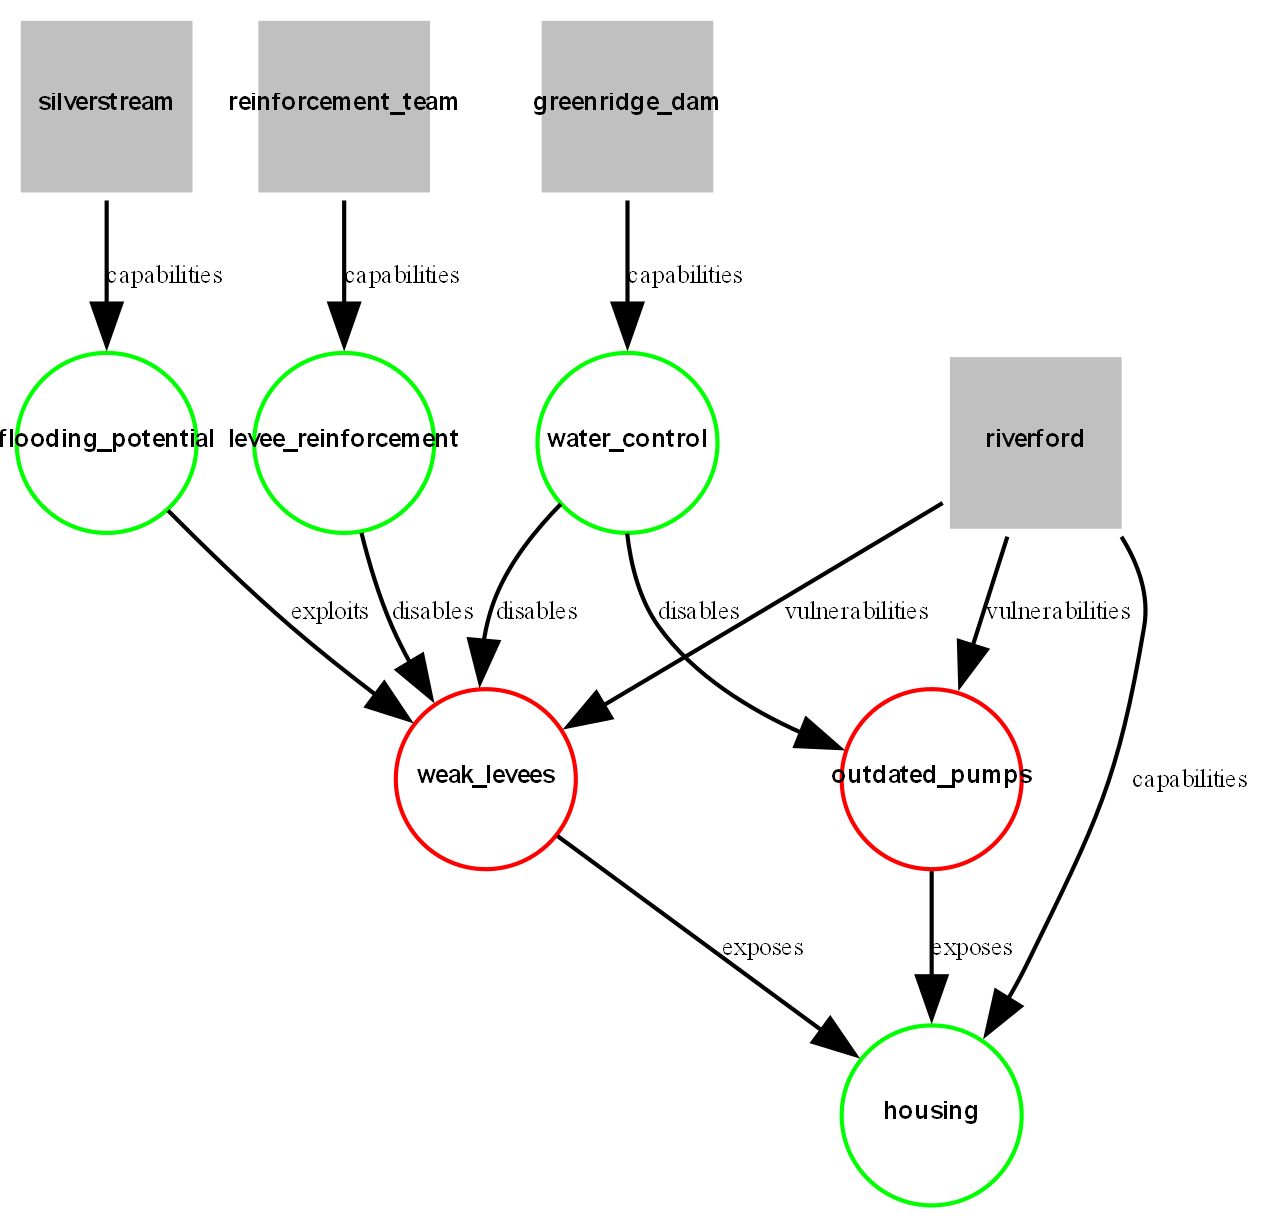
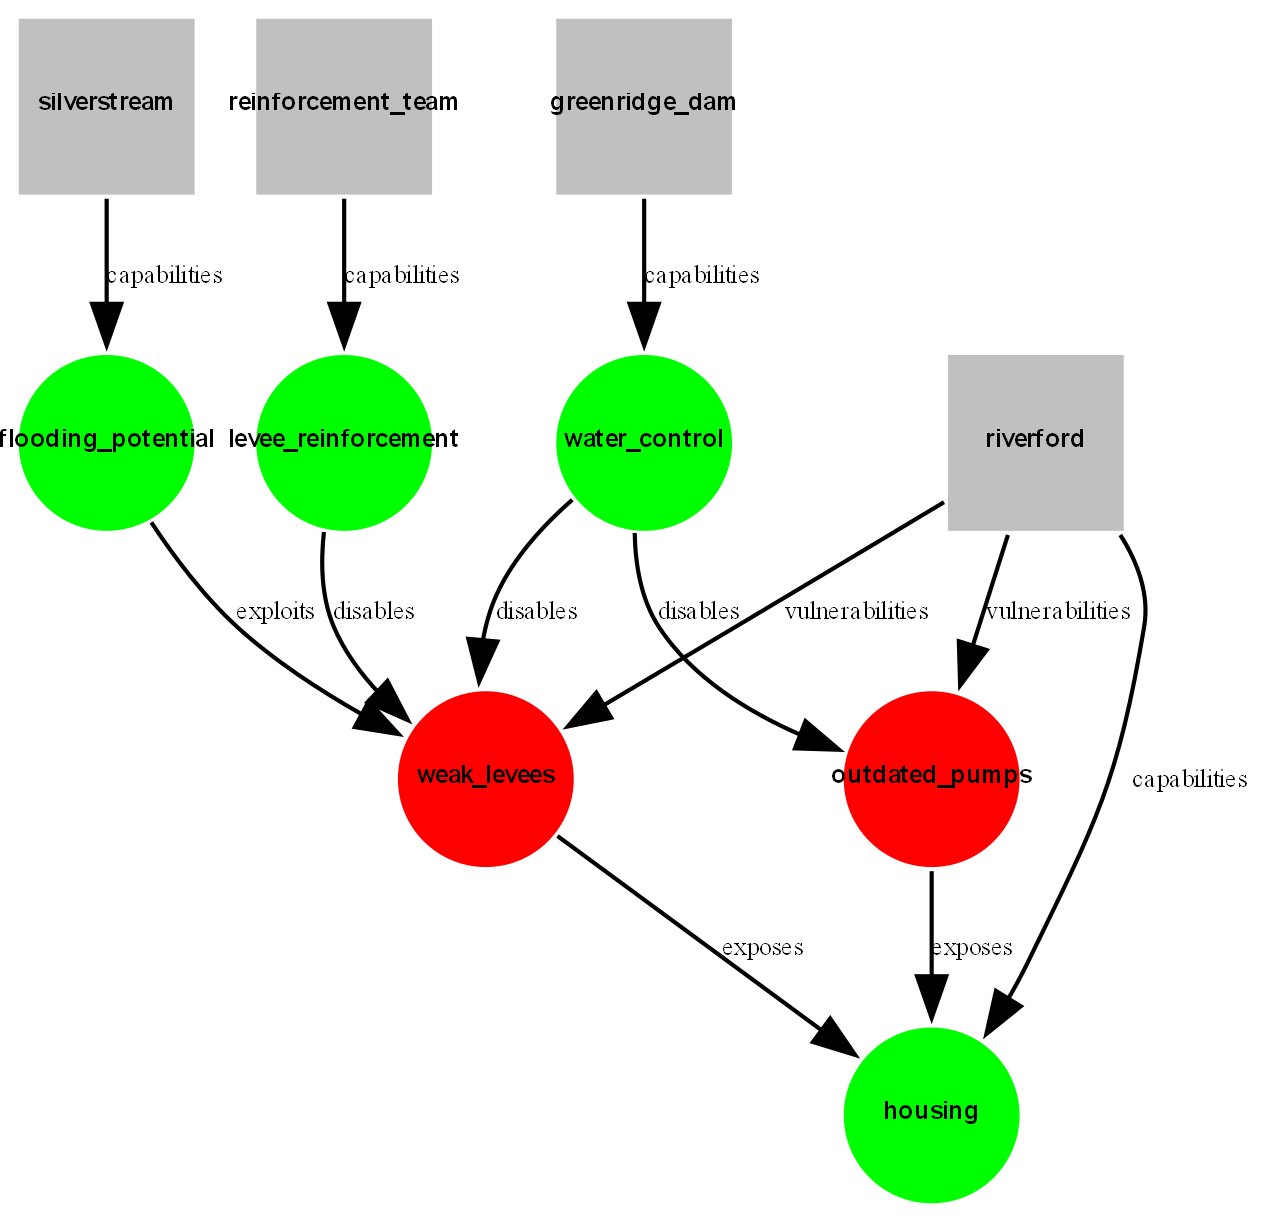
Visualization working for Dispositions and subtypes.

diff --git a/laderr_engine/laderr_lib/services/visualization.py b/laderr_engine/laderr_lib/services/visualization.py
@@ -19,7 +19,7 @@ class GraphCreator:
     """
 
     @staticmethod
-    def create_graph_visualization(laderr_graph: Graph, output_file_path: str, include_legend: bool = False) -> None:
+    def create_graph_visualization(laderr_graph: Graph, output_file_path: str) -> None:
         """
         Generates a Graphviz visualization of the RDF graph and saves it as a PNG.
 
@@ -36,18 +36,13 @@ class GraphCreator:
         :type laderr_graph: Graph
         :param output_file_path: Path to save the output visualization (must end with '.png').
         :type output_file_path: str
-        :param include_legend: Whether to include a text-only legend listing descriptions of node and edge styles.
-        :type include_legend: bool
         :raises ValueError: If the output file does not have a '.png' extension.
         """
         GraphCreator._validate_output_path(output_file_path)
         dot = GraphCreator._initialize_graph()
-        node_styles, edge_styles = GraphCreator._define_styles()
 
-        added_nodes = GraphCreator._process_nodes(laderr_graph, dot, node_styles)
-        GraphCreator._process_edges(laderr_graph, dot, added_nodes, edge_styles)
-        if include_legend:
-            GraphCreator._add_text_legend(dot, node_styles, edge_styles)
+        added_nodes = GraphCreator._process_nodes(laderr_graph, dot)
+        GraphCreator._process_edges(laderr_graph, dot, added_nodes)
         dot.render(output_file_path[:-4], cleanup=True)  # Remove '.png' for Graphviz
         logger.success(f"Graph saved as {output_file_path}")
 
@@ -77,32 +72,7 @@ class GraphCreator:
         return dot
 
     @staticmethod
-    def _define_styles() -> tuple[dict, dict]:
-        """
-        Defines node and edge styles used in the visualization.
-
-        This method:
-        - Specifies the default styles for nodes, including their shape, color, and border properties.
-        - Defines color schemes for different Entity subtypes (Asset, Control, Threat).
-        - Configures the colors of various edges representing relationships in the RDF graph.
-
-        :return: A tuple containing dictionaries for node styles and edge styles.
-        :rtype: tuple[dict, dict]
-        """
-        node_styles = {"Entity": {"shape": "square", "color": "white", "style": "filled", "penwidth": "2"},
-                       "Asset": {"color": "green"}, "Control": {"color": "blue"}, "Threat": {"color": "red"},
-                       "Capability": {"shape": "circle", "color": "green", "style": "filled"},
-                       "Vulnerability": {"shape": "circle", "color": "red", "style": "filled"},
-                       "Resilience": {"shape": "doublecircle", "color": "orange", "style": "filled"},
-                       "Mixed": {"shape": "circle", "color": "yellow", "style": "filled"}, }
-
-        edge_styles = {"protects": "blue", "inhibits": "blue", "threatens": "blue", "preserves": "orange",
-                       "preservesAgainst": "orange", "preservesDespite": "orange", "sustains": "orange", }
-
-        return node_styles, edge_styles
-
-    @staticmethod
-    def _process_nodes(laderr_graph: Graph, dot: graphviz.Digraph, node_styles: dict) -> set:
+    def _process_nodes(laderr_graph: Graph, dot: graphviz.Digraph) -> set:
         """
         Processes RDF nodes, assigns styles, and adds them to the Graphviz Digraph.
 
@@ -110,8 +80,6 @@ class GraphCreator:
         :type laderr_graph: Graph
         :param dot: Graphviz Digraph instance to which nodes will be added.
         :type dot: graphviz.Digraph
-        :param node_styles: Dictionary defining styles for different node types.
-        :type node_styles: dict
         :return: A set containing added node IDs to track processed nodes.
         :rtype: set
         """
@@ -126,46 +94,60 @@ class GraphCreator:
                 continue
 
             if "Resilience" in instance_types:
-                style = node_styles["Resilience"]
-            elif "Capability" in instance_types and "Vulnerability" in instance_types:
-                style = node_styles["Mixed"]
-            elif "Capability" in instance_types:
-                style = node_styles["Capability"]
-            elif "Vulnerability" in instance_types:
-                style = node_styles["Vulnerability"]
+                style = {"shape": "ellipse", "color": "white", "style": "filled", "fillcolor": "orange"}
+            elif any(item in instance_types for item in ["Disposition", "Capability", "Vulnerability"]):
+                style = GraphCreator._get_disposition_style(instance_types)
             elif "Entity" in instance_types:
-                # ic(instance_types, node_styles)
-                style = GraphCreator._get_entity_style(instance_types, node_styles)  # ic(style)
+                style = GraphCreator._get_entity_style(instance_types)
             else:
                 style = {"shape": "ellipse", "color": "black", "style": "filled"}
 
             if instance_id not in added_nodes:
                 dot.node(instance_id, shape=style["shape"], color=style["color"], style=style["style"],
-                    penwidth=style.get("penwidth", "1"), fillcolor=style.get("fillcolor", "white"),
-                    gradientangle=style.get("gradientangle", ""), fixedsize="true", width="0.6", height="0.6",
-                    fontname="Arial", fontsize="6", label=f"<<B>{instance_id}</B>>", margin="0.05"  # Adjust padding
-                )
+                         penwidth=style.get("penwidth", "1"), fillcolor=style.get("fillcolor", "white"),
+                         gradientangle=style.get("gradientangle", ""), fixedsize="true", width="0.6", height="0.6",
+                         fontname="Arial", fontsize="6", label=f"<<B>{instance_id}</B>>", margin="0.05")
 
                 added_nodes.add(instance_id)
 
         return added_nodes
 
     @staticmethod
-    def _get_entity_style(instance_types: list, node_styles: dict) -> dict:
+    def _get_disposition_style(instance_types: list) -> dict:
+        """
+        Determines the visual style of a Disposition based on whether it is a Capability, Vulnerability, or both.
+
+        :param instance_types: List of types associated with the disposition.
+        :type instance_types: list
+        :return: A dictionary containing Graphviz node style attributes.
+        :rtype: dict
+        """
+        base_style = {"shape": "circle", "style": "filled", "color": "white"}
+
+        if "Capability" in instance_types and "Vulnerability" in instance_types:
+            return {**base_style, "fillcolor": "green:red", "style": "wedged"}
+        elif "Capability" in instance_types:
+            return {**base_style, "fillcolor": "green"}
+        elif "Vulnerability" in instance_types:
+            return {**base_style, "fillcolor": "red"}
+        else:
+            return {**base_style, "fillcolor": "grey"}
+
+    @staticmethod
+    def _get_entity_style(instance_types: list) -> dict:
         """
         Determines the visual style of an Entity based on its subtypes using appropriate Graphviz styles.
 
         :param instance_types: List of types associated with the entity.
         :type instance_types: list
-        :param node_styles: Dictionary defining styles for different node types.
-        :type node_styles: dict
         :return: A dictionary containing Graphviz node style attributes.
         :rtype: dict
         """
+        node_styles = {"Entity": {"shape": "square", "color": "white", "style": "filled"}, "Asset": {"color": "green"},
+                       "Control": {"color": "#789df5"}, "Threat": {"color": "red"}}
+
         base_style = node_styles["Entity"]
         entity_types = [t for t in ["Asset", "Control", "Threat"] if t in instance_types]
-
-        # ic(base_style, entity_types)
 
         if not entity_types:
             return {**base_style, "fillcolor": "grey", "style": "filled"}
@@ -175,18 +157,18 @@ class GraphCreator:
 
         if len(entity_types) == 2:
             return {**base_style,
-                "fillcolor": f"{node_styles[entity_types[0]]['color']}:{node_styles[entity_types[1]]['color']}",
-                "style": "striped"}
+                    "fillcolor": f"{node_styles[entity_types[0]]['color']}:{node_styles[entity_types[1]]['color']}",
+                    "style": "striped"}
 
         if len(entity_types) == 3:
             return {**base_style,
-                "fillcolor": f"{node_styles['Asset']['color']};0.33:{node_styles['Control']['color']};0.33:{node_styles['Threat']['color']};0.34",
-                "style": "striped"}
+                    "fillcolor": f"{node_styles['Asset']['color']};0.33:{node_styles['Control']['color']};0.33:{node_styles['Threat']['color']};0.34",
+                    "style": "striped"}
 
         return base_style  # Fallback, should not be reached
 
     @staticmethod
-    def _process_edges(laderr_graph: Graph, dot: graphviz.Digraph, added_nodes: set, edge_styles: dict) -> None:
+    def _process_edges(laderr_graph: Graph, dot: graphviz.Digraph, added_nodes: set) -> None:
         """
         Processes RDF relationships, assigns edge styles, and adds them to the Graphviz Digraph.
 
@@ -196,9 +178,11 @@ class GraphCreator:
         :type dot: graphviz.Digraph
         :param added_nodes: Set of added node IDs to ensure valid edges.
         :type added_nodes: set
-        :param edge_styles: Dictionary defining styles for different edge types.
-        :type edge_styles: dict
         """
+
+        edge_styles = {"protects": "blue", "inhibits": "blue", "threatens": "blue", "preserves": "orange",
+                       "preservesAgainst": "orange", "preservesDespite": "orange", "sustains": "orange", }
+
         for subject, predicate, obj in laderr_graph:
             subject_id = str(subject).split("#")[-1]
             obj_id = str(obj).split("#")[-1]
@@ -208,39 +192,3 @@ class GraphCreator:
                 edge_color = edge_styles.get(predicate_label, "black")
                 dot.edge(subject_id, obj_id, label=predicate_label, fontsize="6", color=edge_color,
                          fontcolor=edge_color)
-
-    @staticmethod
-    def _add_text_legend(dot: graphviz.Digraph, node_styles: dict, edge_styles: dict) -> None:
-        """
-        Adds a text-only legend to the Graphviz visualization, listing node and edge types with their corresponding descriptions.
-
-        :param dot: Graphviz Digraph instance where the legend will be added.
-        :type dot: graphviz.Digraph
-        :param node_styles: Dictionary defining styles for different node types.
-        :type node_styles: dict
-        :param edge_styles: Dictionary defining styles for different edge types.
-        :type edge_styles: dict
-        """
-        with dot.subgraph(name="cluster_legend") as legend:
-            legend.attr(label="Legend", fontsize="14", color="black", style="dashed", margin="0.3")
-
-            # Define a table-style label for the legend
-            legend_label = """<
-                <TABLE BORDER="0" CELLBORDER="1" CELLSPACING="0">
-                    <TR><TD><B>Symbol</B></TD><TD><B>Meaning</B></TD></TR>
-            """
-
-            # ---- NODE SYMBOLS ----
-            for label, style in node_styles.items():
-                symbol_desc = f"{style['color']} {style['shape']}"  # e.g., "blue square"
-                legend_label += f'<TR><TD>{symbol_desc}</TD><TD>{label}</TD></TR>'
-
-            # ---- EDGE SYMBOLS ----
-            for label, color in edge_styles.items():
-                symbol_desc = f"{color} line"  # e.g., "red line"
-                legend_label += f'<TR><TD>{symbol_desc}</TD><TD>{label} relation</TD></TR>'
-
-            legend_label += "</TABLE>>"
-
-            # Add a single legend node containing the text
-            legend.node("text_legend", label=legend_label, shape="plaintext", fontsize="10")

diff --git a/laderr_engine/tester.py b/laderr_engine/tester.py
@@ -4,7 +4,6 @@ from laderr_engine.laderr_lib.laderr import Laderr
 from laderr_engine.laderr_lib.services.visualization import GraphCreator
 
 if __name__ == "__main__":
-
     # Load spec_metadata_dict and data from the specification
     laderr_file = "C:\\Users\\FavatoBarcelosPP\\Dev\\laderr_engine\\manual_test_resources\\example.toml"
 
@@ -16,8 +15,10 @@ if __name__ == "__main__":
     GraphCreator.create_graph_visualization(laderr_graph,
                                             "C:\\Users\\FavatoBarcelosPP\\Dev\\laderr_engine\\manual_test_resources\\output_graph1.png")
 
-    laderr_graph = Laderr.exec_inferences_ladder_graph(laderr_graph)
+    Laderr.save_laderr_graph(laderr_graph,
+                             "C:\\Users\\FavatoBarcelosPP\\Dev\\laderr_engine\\manual_test_resources\\output_graph1.ttl")
 
+    laderr_graph = Laderr.exec_inferences_ladder_graph(laderr_graph)
 
     # Add the triple to the graph
     # Define Subject, Predicate, and Object
@@ -33,8 +34,18 @@ if __name__ == "__main__":
     obj = URIRef("https://w3id.org/laderr#Threat")
     laderr_graph.add((subject, predicate, obj))
 
+    subject = URIRef("https://socio-ecological.example.com/laderr#test")
+    predicate = URIRef(RDF.type)
+    obj = URIRef("https://w3id.org/laderr#Disposition")
+    laderr_graph.add((subject, predicate, obj))
+
+    subject = URIRef("https://socio-ecological.example.com/laderr#levee_reinforcement")
+    predicate = URIRef(RDF.type)
+    obj = URIRef("https://w3id.org/laderr#Vulnerability")
+    laderr_graph.add((subject, predicate, obj))
+
     Laderr.save_laderr_graph(laderr_graph,
-                             "C:\\Users\\FavatoBarcelosPP\\Dev\\laderr_engine\\manual_test_resources\\output_graph.ttl")
+                             "C:\\Users\\FavatoBarcelosPP\\Dev\\laderr_engine\\manual_test_resources\\output_graph2.ttl")
     Laderr.save_laderr_spec_from_graph(laderr_graph,
                                        "C:\\Users\\FavatoBarcelosPP\\Dev\\laderr_engine\\manual_test_resources\\output_spec.toml")
 
